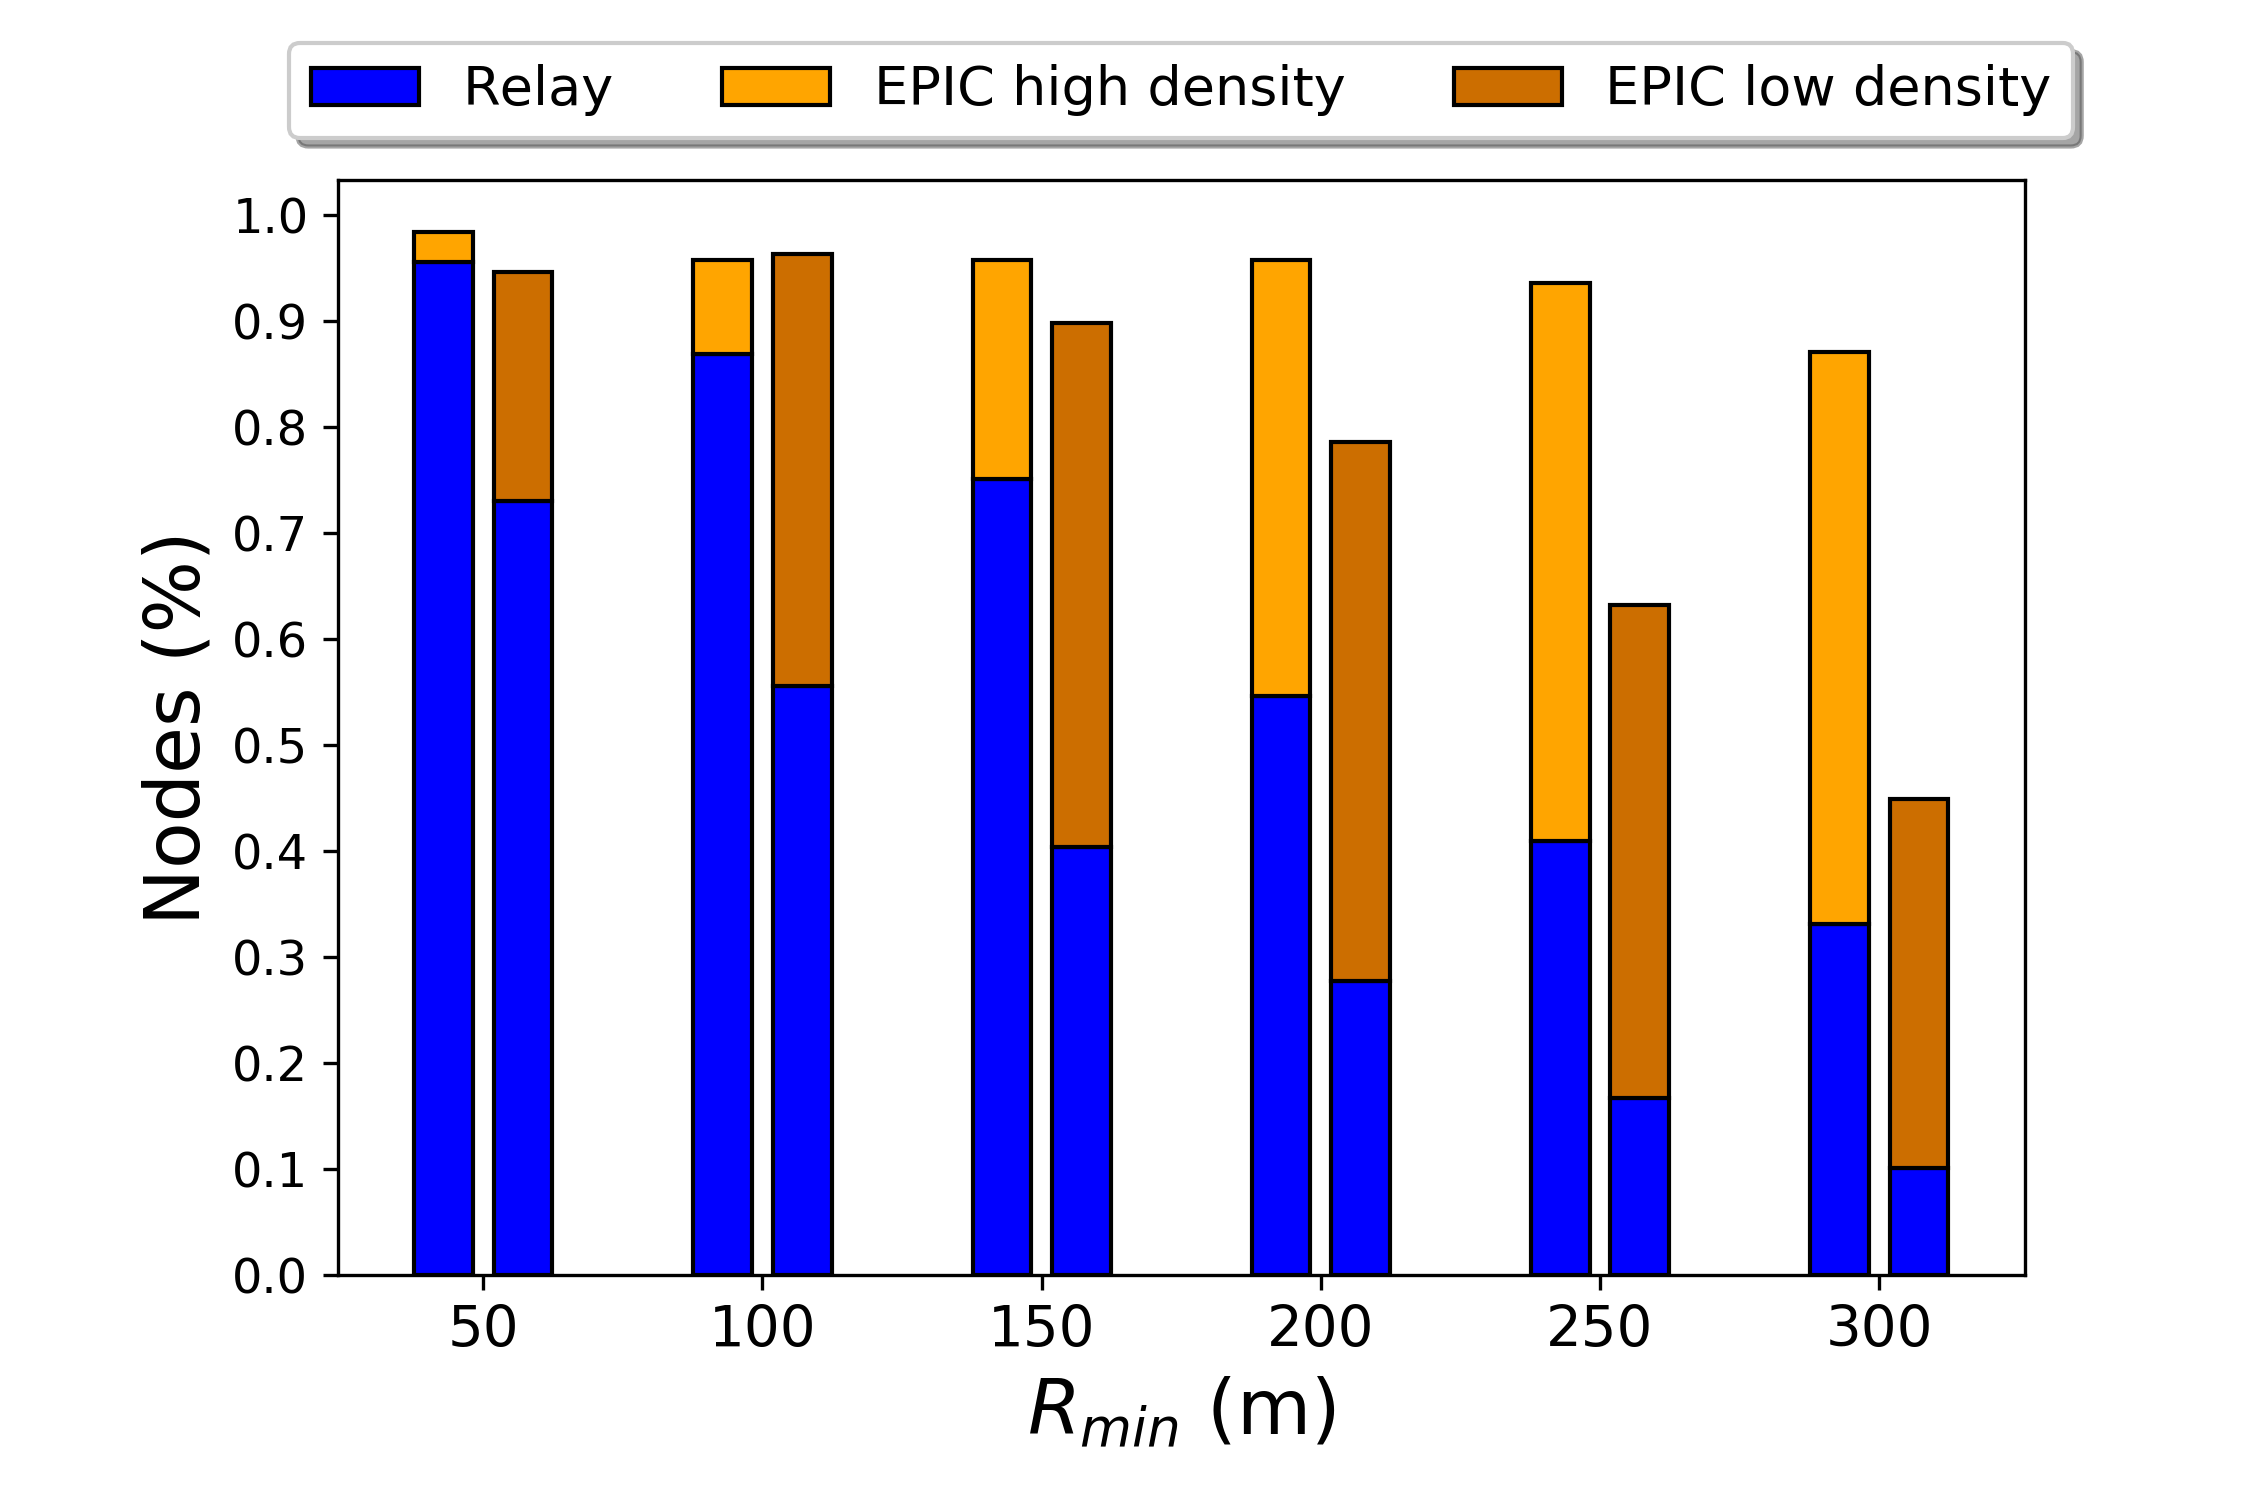
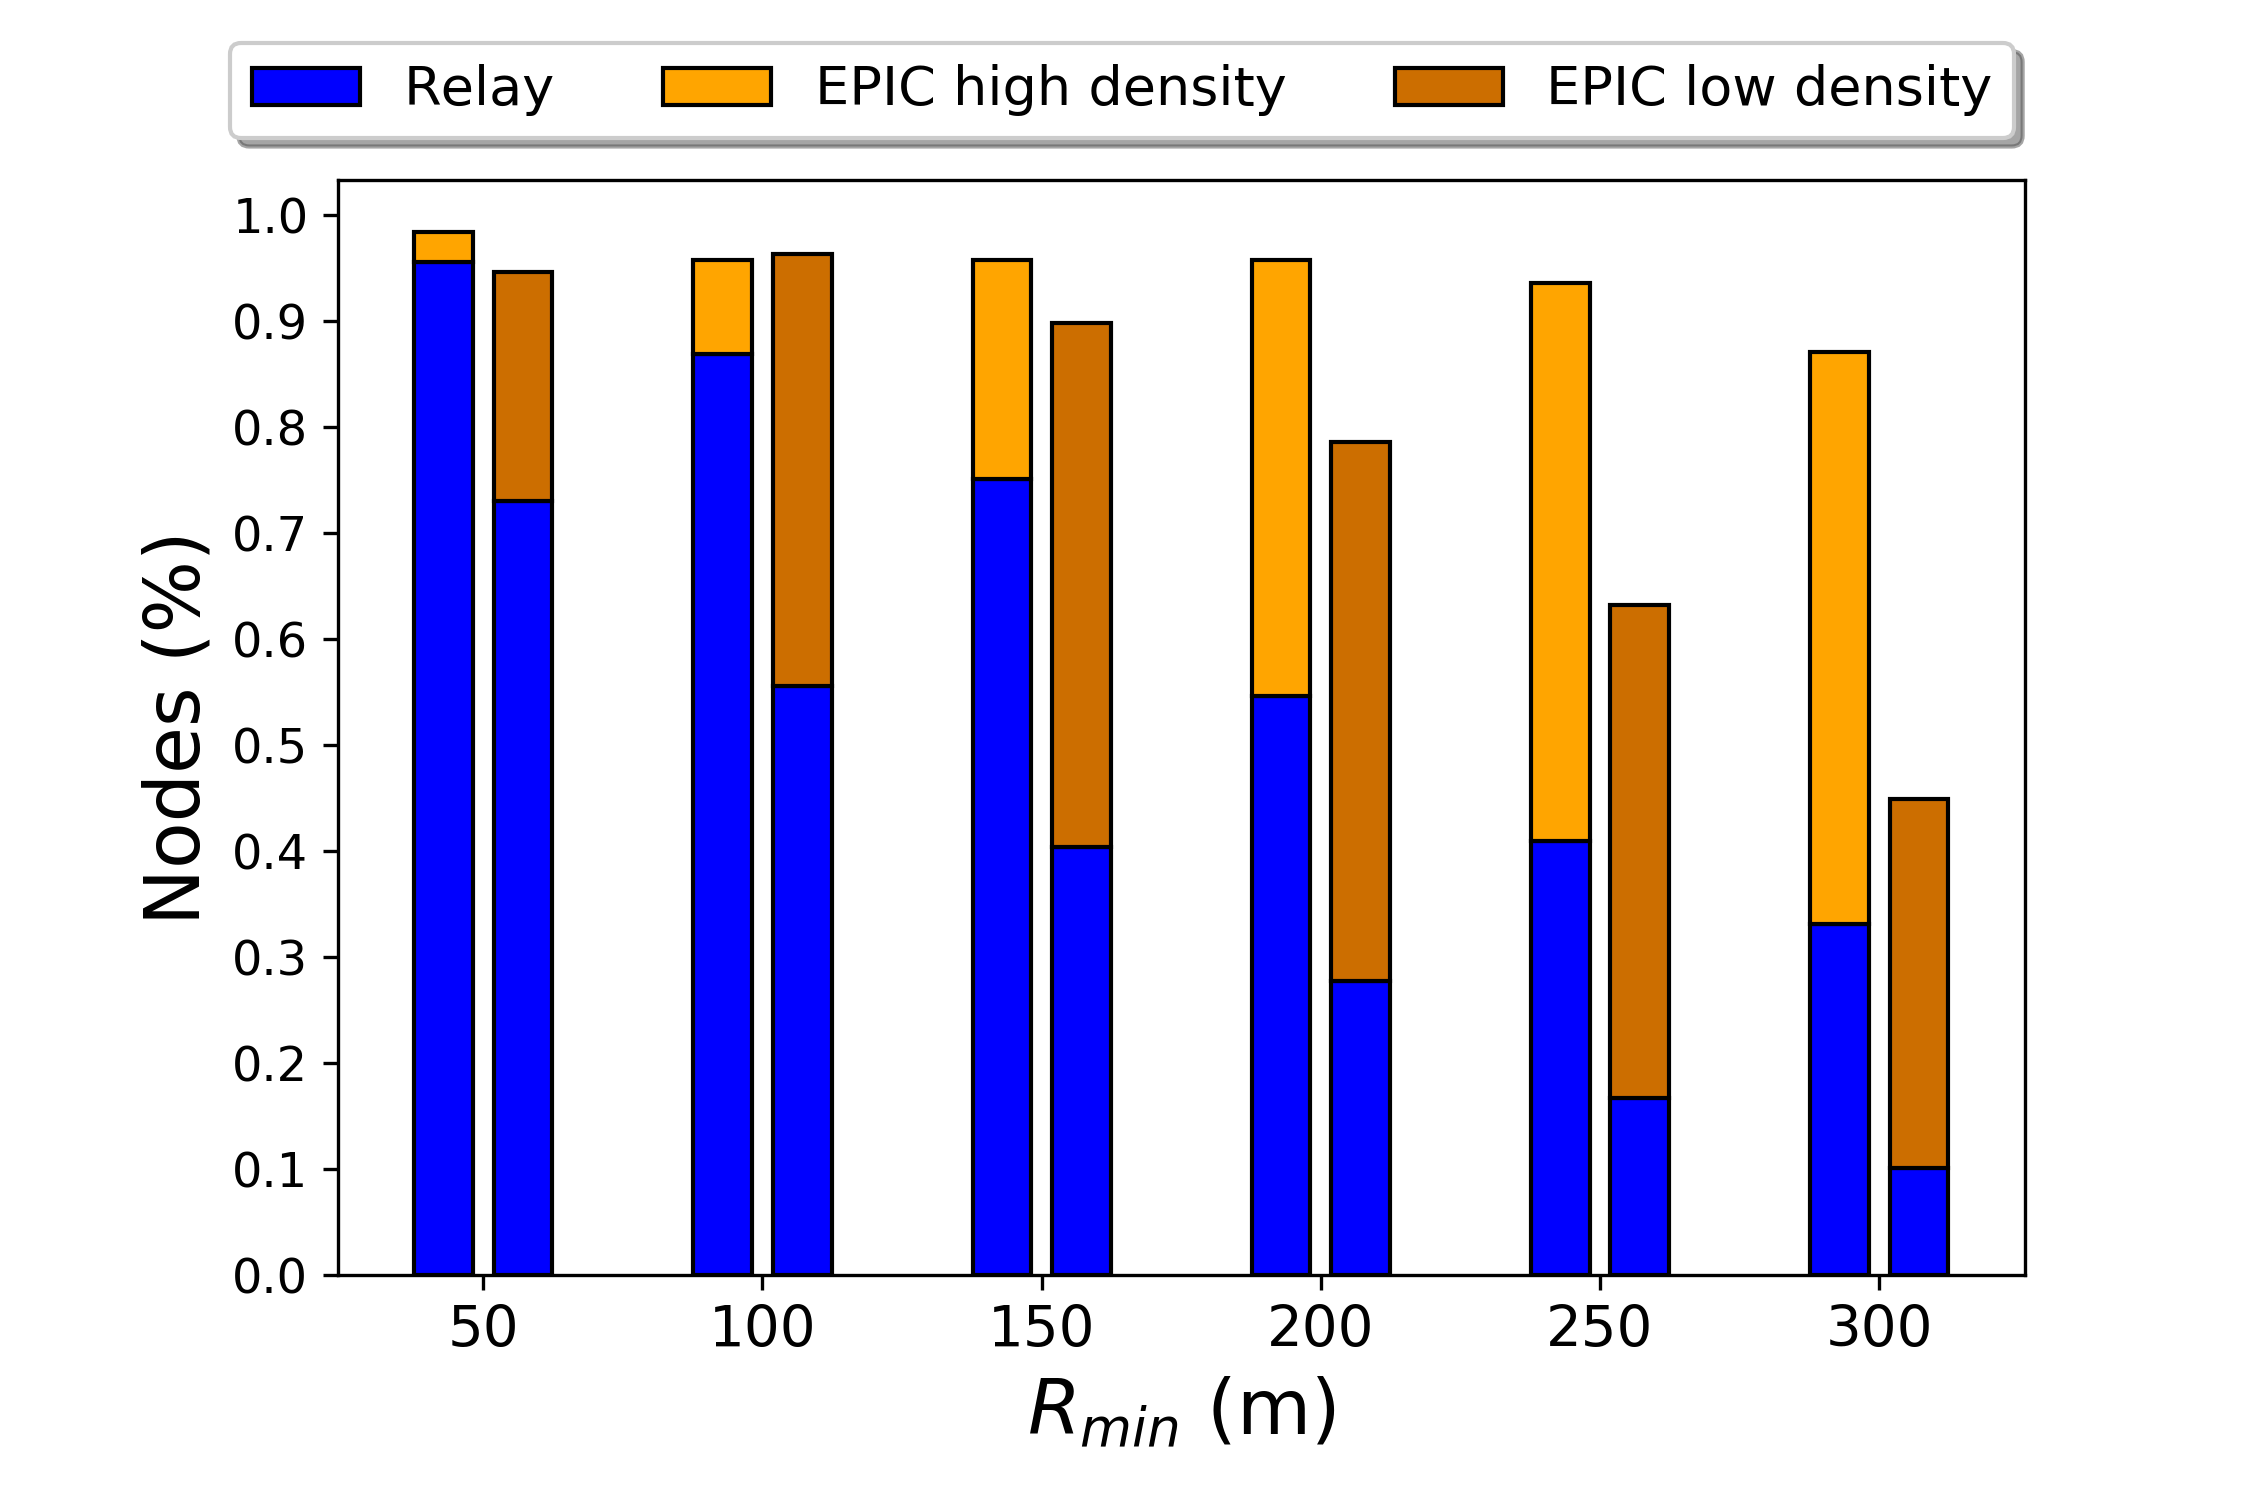
cropped images

Changed region(s): [[0.0933, 0.0307, 0.5911, 0.1227], [0.6222, 0.0307, 0.9333, 0.1227]]

diff --git a/grafici/graph-TC-alg-rmin-comp.py b/grafici/graph-TC-alg-rmin-comp.py
@@ -66,7 +66,7 @@ plt.yticks(np.arange(0, 1.1, 0.1))
 #	loc='upper center', bbox_to_anchor=(0.5, -0.08),
 #    fancybox=True, shadow=True, ncol=5)
 plt.legend((p1[0], p2[0], p4[0]), ('Relay', 'EPIC high density', 'EPIC low density'), 
-  	loc='upper center', bbox_to_anchor=(0.5, 1.15), fancybox=True, shadow=True, ncol=5)
+  	loc='upper center', bbox_to_anchor=(0.465, 1.15), fancybox=True, shadow=True, ncol=5)
 
 
 plt.gcf().subplots_adjust(bottom=0.15, left=0.15)
